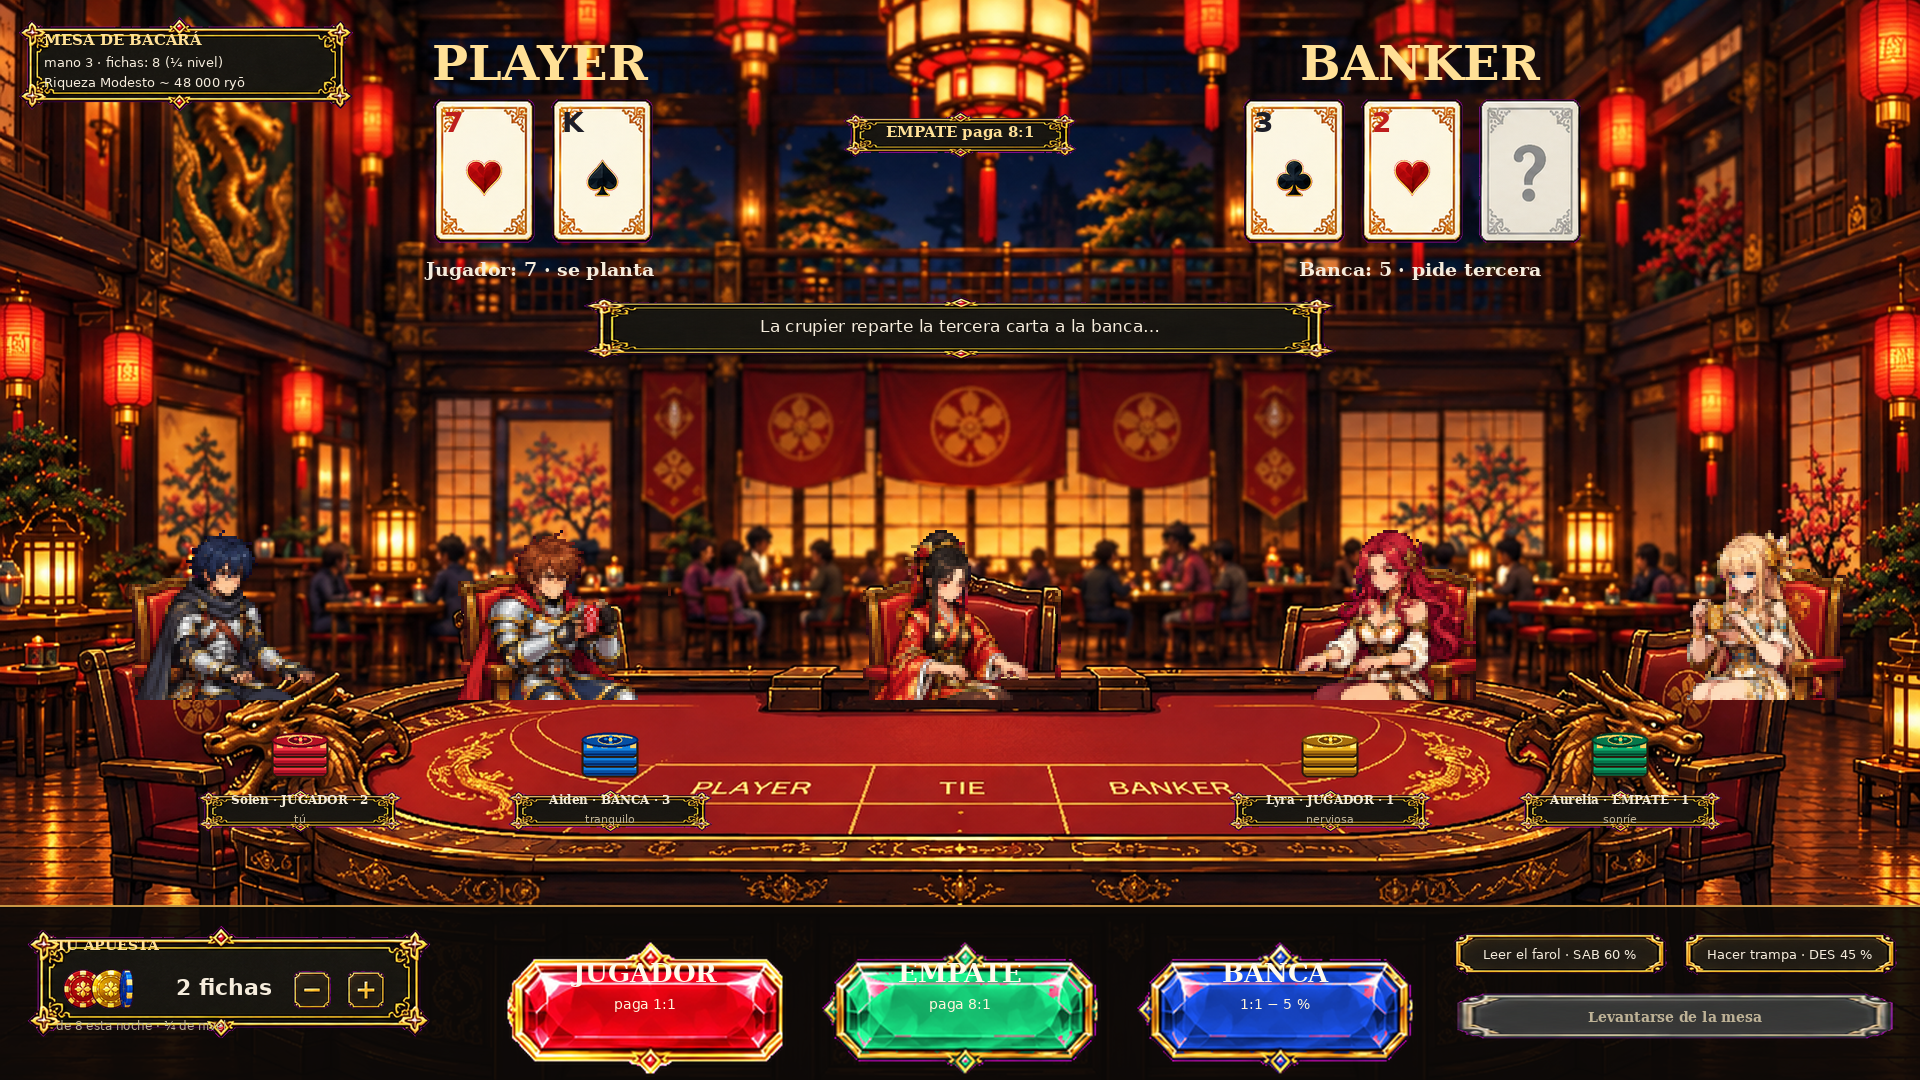
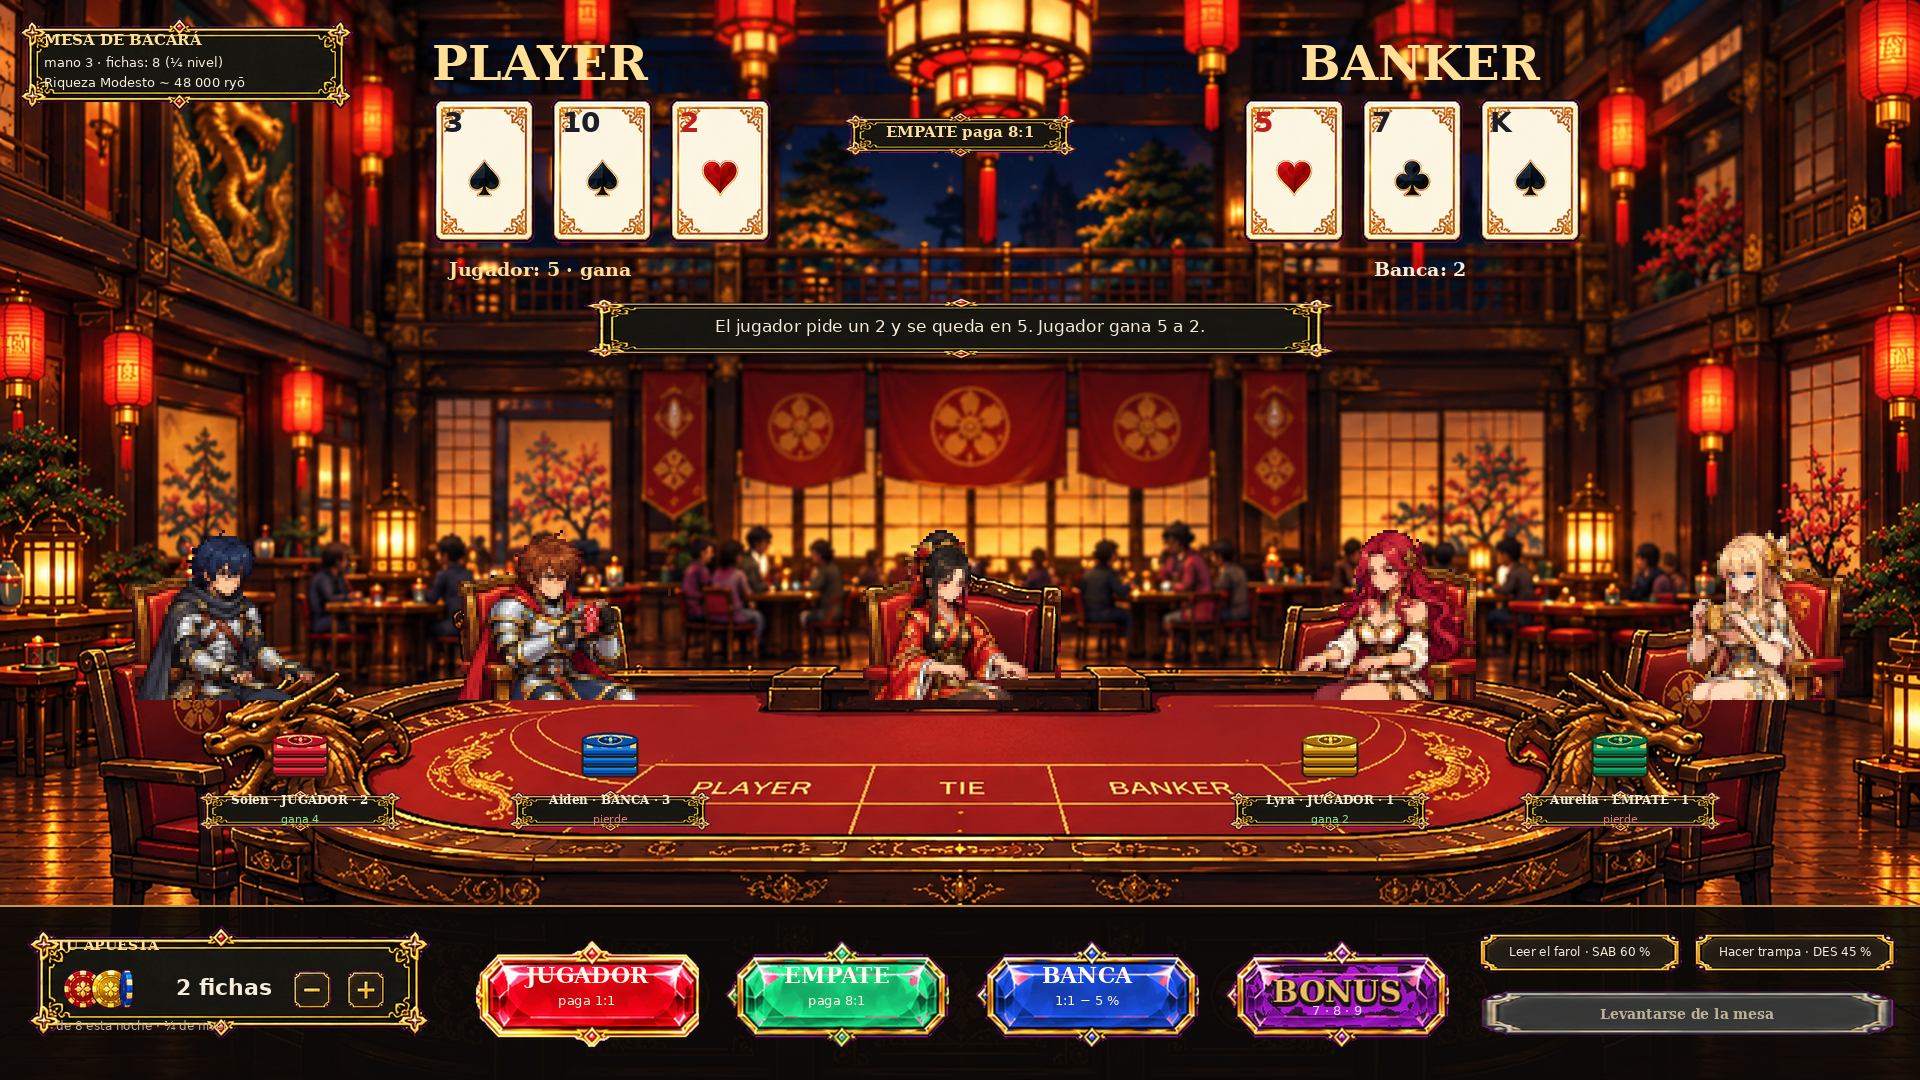
Baccarat engine (punto banco rules, seeded shoe, payouts, the owner's bonus bets) with tests; the table screen with his UI pieces, the amethyst bonus button and three real hands
src/campaign/baccarat.ts: an 8-deck shoe shuffled on the seeded rng, the
coup by the third-card table, payouts (banker -5 %, tie 8:1) and the three
bonus bets he named (Blazing 7 40:1, Panda 8 25:1, Heavenly 9 8:1).
baccarat.test.ts pins the rules and checks the house edge over 40 shoes;
npm test now covers src/campaign. Mocks: three dealt hands composed on the
backdrop with his gem buttons, frames, suited cards and chips, and the
bonus menu.

Claude-Session: https://claude.ai/code/session_01EpW692ymKrP3N4xAnc5Ww8

diff --git a/src/campaign/baccarat.ts b/src/campaign/baccarat.ts
@@ -1,0 +1,80 @@
+// Baccarat (punto banco) as the casino table plays it: docs/WORLD_DESIGN.md 5b, the owner's rule
+// "el bacará se juega exactamente como el bacará". Pure, deterministic (a seeded shoe), no React.
+
+import { Rng } from '../rules/rng';
+
+export type Suit = 'hearts' | 'diamonds' | 'spades' | 'clubs';
+export interface Card { rank: number; suit: Suit } // rank 1..13 (ace..king)
+export type MainBet = 'player' | 'banker' | 'tie';
+/** The owner's three bonus bets (2026-10-28): his names; the 8 is the one real casinos call Panda 8. */
+export type BonusBet = 'blazing7' | 'panda8' | 'heavenly9';
+export type Bet = MainBet | BonusBet;
+
+/** Pips: faces and tens count 0, the ace 1. A hand is the last digit of its sum. */
+export const pips = (c: Card): number => (c.rank >= 10 ? 0 : c.rank);
+export const total = (cards: Card[]): number => cards.reduce((s, c) => s + pips(c), 0) % 10;
+
+export function shoe(rng: Rng, decks = 8): Card[] {
+  const cards: Card[] = [];
+  for (let d = 0; d < decks; d++) for (const suit of ['hearts', 'diamonds', 'spades', 'clubs'] as Suit[]) for (let rank = 1; rank <= 13; rank++) cards.push({ rank, suit });
+  for (let i = cards.length - 1; i > 0; i--) { // Fisher-Yates on the seeded rng
+    const j = Math.floor(rng() * (i + 1));
+    [cards[i], cards[j]] = [cards[j], cards[i]];
+  }
+  return cards;
+}
+
+export interface Hand {
+  player: Card[];
+  banker: Card[];
+  /** 'player' | 'banker' | 'tie' */
+  winner: MainBet;
+  /** What happened, in order, for the narrator and the deal animation. */
+  log: string[];
+}
+
+/**
+ * One coup by the punto banco rules: two cards each; a natural 8 or 9 ends it; otherwise the player
+ * draws on 0-5 and stands on 6-7, and the banker draws by the table (on its own total and the
+ * player's third card).
+ */
+export function deal(cards: Card[]): Hand {
+  const take = (): Card => { const c = cards.shift(); if (!c) throw new Error('the shoe is empty'); return c; };
+  const player = [take(), take()];
+  const banker = [take(), take()];
+  const log: string[] = [];
+  let p = total(player), b = total(banker);
+  if (p >= 8 || b >= 8) {
+    log.push(p >= 8 && b >= 8 ? 'both natural' : p >= 8 ? 'player natural' : 'banker natural');
+  } else {
+    let third: Card | undefined;
+    if (p <= 5) { third = take(); player.push(third); p = total(player); log.push(`player draws ${pips(third)}`); } else log.push('player stands');
+    const t = third ? pips(third) : -1;
+    const bankerDraws = third === undefined ? b <= 5
+      : b <= 2 ? true
+      : b === 3 ? t !== 8
+      : b === 4 ? t >= 2 && t <= 7
+      : b === 5 ? t >= 4 && t <= 7
+      : b === 6 ? t === 6 || t === 7
+      : false;
+    if (bankerDraws) { const c = take(); banker.push(c); b = total(banker); log.push(`banker draws ${pips(c)}`); } else log.push('banker stands');
+  }
+  const winner: MainBet = p > b ? 'player' : b > p ? 'banker' : 'tie';
+  log.push(`${winner} wins ${p}-${b}`);
+  return { player, banker, winner, log };
+}
+
+/** What a bet of `stake` chips returns (stake included), 0 when it loses; main bets are given back on a tie. */
+export function payout(bet: Bet, stake: number, h: Hand): number {
+  const p = total(h.player), b = total(h.banker);
+  switch (bet) {
+    case 'player': return h.winner === 'player' ? stake * 2 : h.winner === 'tie' ? stake : 0;
+    case 'banker': return h.winner === 'banker' ? stake + Math.floor(stake * 0.95) : h.winner === 'tie' ? stake : 0; // 5 % commission, rounded down, never to zero
+    case 'tie': return h.winner === 'tie' ? stake * 9 : 0;
+    case 'blazing7': return h.winner === 'banker' && h.banker.length === 3 && b === 7 ? stake * 41 : 0; // the banker wins with a three-card 7
+    case 'panda8': return h.winner === 'player' && h.player.length === 3 && p === 8 ? stake * 26 : 0; // the player wins with a three-card 8
+    case 'heavenly9': return (p === 9 && h.player.length === 2) || (b === 9 && h.banker.length === 2) ? stake * 9 : 0; // a natural 9 on either side
+  }
+}
+
+export const BET_PAYS: Record<Bet, string> = { player: '1:1', banker: '1:1 − 5 %', tie: '8:1', blazing7: '40:1', panda8: '25:1', heavenly9: '8:1' };

diff --git a/src/campaign/baccarat.test.ts b/src/campaign/baccarat.test.ts
@@ -1,0 +1,51 @@
+import assert from 'node:assert/strict';
+import { describe, it } from 'node:test';
+import { rngFor } from '../rules/rng';
+import { Card, deal, payout, pips, shoe, total } from './baccarat';
+
+const c = (rank: number): Card => ({ rank, suit: 'spades' });
+
+describe('baccarat', () => {
+  it('counts pips as the table does', () => {
+    assert.equal(total([c(7), c(8)]), 5);
+    assert.deepEqual([pips(c(1)), pips(c(10)), pips(c(13))], [1, 0, 0]);
+  });
+  it('a natural ends the coup', () => {
+    const h = deal([c(9), c(10), c(4), c(2)]); // player 9 (natural): nobody draws
+    assert.equal(h.player.length + h.banker.length, 4);
+    assert.deepEqual(h.log, ['player natural', 'player wins 9-6']);
+  });
+  it('the banker draws by the table', () => {
+    // player 2+3=5 draws a 6 -> 1; banker 3+3=6 with the player's third 6 -> draws
+    const h = deal([c(2), c(3), c(3), c(3), c(6), c(1)]);
+    assert.deepEqual(h.log, ['player draws 6', 'banker draws 1', 'banker wins 1-7']);
+    // banker 3 and the player's third an 8: stands
+    const g = deal([c(2), c(3), c(1), c(2), c(8), c(9)]);
+    assert.equal(g.log[1], 'banker stands');
+  });
+  it('pays as the owner wrote it: banker −5 %, tie 8:1, the bonus bets', () => {
+    const h = deal([c(2), c(3), c(3), c(3), c(6), c(1)]); // banker 7 with three cards
+    assert.equal(payout('banker', 10, h), 19);
+    assert.equal(payout('player', 10, h), 0);
+    assert.equal(payout('blazing7', 1, h), 41);
+    const nine = deal([c(9), c(10), c(4), c(2)]); // player natural 9
+    assert.equal(payout('heavenly9', 2, nine), 18);
+    assert.equal(payout('tie', 1, nine), 0);
+  });
+  it('the shoe is deterministic from the seed and holds 8 decks', () => {
+    const a = shoe(rngFor(7, 'casino', 1)), b = shoe(rngFor(7, 'casino', 1));
+    assert.equal(a.length, 416);
+    assert.deepEqual(a.slice(0, 10), b.slice(0, 10));
+    assert.notDeepEqual(a.slice(0, 10), shoe(rngFor(8, 'casino', 1)).slice(0, 10));
+  });
+  it('over a shoe the house edge is where it should be', () => {
+    let player = 0, banker = 0, tie = 0, n = 0;
+    for (let s = 0; s < 40; s++) {
+      const cards = shoe(rngFor(s, 'casino', 'edge'));
+      while (cards.length > 20) { const h = deal(cards); n++; if (h.winner === 'player') player++; else if (h.winner === 'banker') banker++; else tie++; }
+    }
+    assert.ok(banker / n > 0.44 && banker / n < 0.48, `banker ${banker / n}`);
+    assert.ok(player / n > 0.42 && player / n < 0.47, `player ${player / n}`);
+    assert.ok(tie / n > 0.07 && tie / n < 0.12, `tie ${tie / n}`);
+  });
+});

diff --git a/docs/WORLD_DESIGN.md b/docs/WORLD_DESIGN.md
@@ -415,6 +415,13 @@ visita y estas cartas en vez de las de casa):
     comisión redondea hacia abajo, nunca te deja a cero); **Empate paga 8:1**, y si hay empate las
     apuestas a Jugador y Banca se devuelven.
   - Las cartas salen del RNG sembrado; la Crónica guarda las manos grandes.
+  - **Apuestas de bonus** (el dueño, 2026-10-28; el cuarto botón, de amatista): **Blazing 7** (la banca
+    gana con un 7 de tres cartas, 40:1), **Panda 8** (el jugador gana con un 8 de tres cartas, 25:1; es
+    el nombre que usan los casinos para la de 8) y **Heavenly 9** (un 9 natural en cualquier mano,
+    8:1). Se apuestan aparte de la principal.
+  - El motor es `src/campaign/baccarat.ts` (zapato de 8 barajas con el RNG sembrado, reparto por la
+    tabla, pagos y bonus), con sus tests; la maqueta jugó tres manos reales con él
+    (`docs/mockups/bacara-three-hands.gif`).
   Para el **póker** se usa el de cinco cartas con descarte (una ronda de apuestas, un descarte de
   hasta tres, otra ronda): las reglas estándar, los PNJ con un estilo por rasgo (farol, pasivo,
   agresivo) y con una prueba de SAB puedes **leer** el farol de un PNJ una vez por mano.
